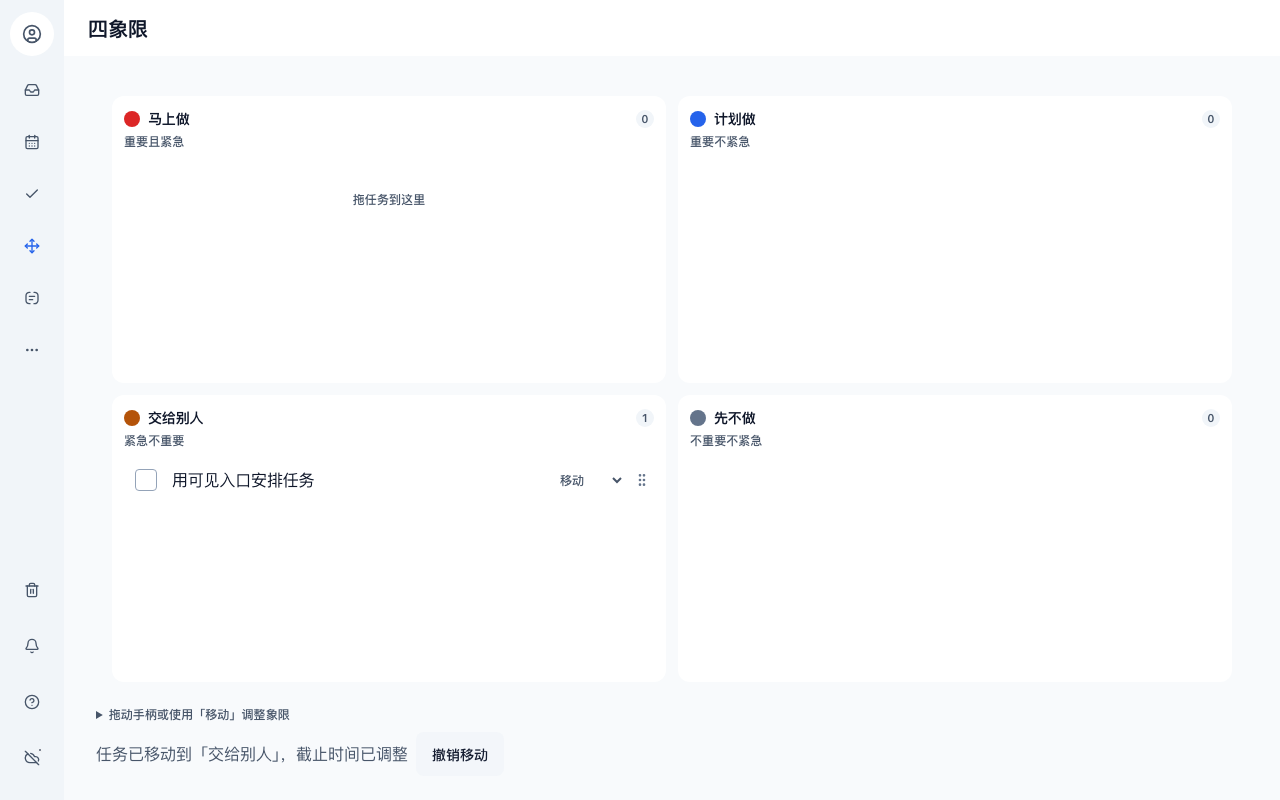
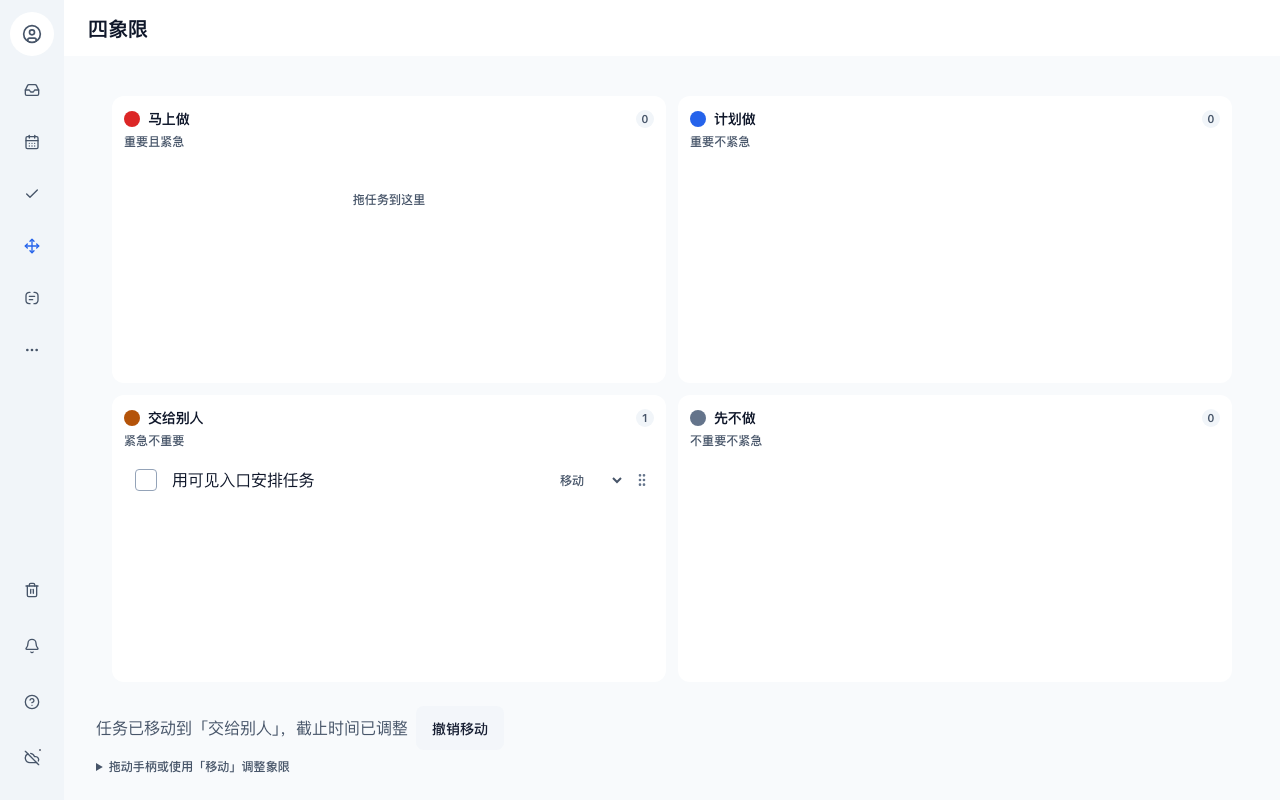
feat(全局UX/P7): 象限撤销回执搬回板子那一段，判据按形状下
回执原来排在折叠帮助之后，1280 档上"任务被移进哪一格"那句与「撤销移动」隔着一整个
板面——刚做完动作的人得滚到页底才找得到出口。现在钉两枚形状判据（真浏览器 y 序 +
DOM 顺序恒为"板子→回执→帮助"），变异取证＝把回执搬回帮助之后精确红，还原 cmp 一致。

第一版判据写的是"回执离板子底边 ≤24px"，375 档实测 40px 当场红——那 24 是我对上边距
的猜测，量的是猜测不是命题，故改成按形状判并把教训留在 spec 注释里。

计划 §8 的 P7 那格记已收口的一格与剩下四格（z 刻度纵切要先加一档语义而不是改一个数，
单纯把 popover 降到 modal 之下会让对话框里开出去的日期/重复选择器沉到遮罩底下）。

Changed region(s): [[0.0625, 0.875, 0.375, 0.9688]]

diff --git a/apps/web/src/features/quadrant/QuadrantBoard.tsx b/apps/web/src/features/quadrant/QuadrantBoard.tsx
@@ -445,33 +445,16 @@ export function QuadrantBoard({ onOpenTask, activeTaskId }: QuadrantBoardProps =
       </HeytaUiProvider>
 
       {/*
-        W5（四象限空态减重）：底部那段四象限规则说明不再裸排长文 ——
-        收进折叠帮助。默认折叠（没有 `open` 属性，浏览器不渲染正文）；
-        summary 复用现成的「帮助」词条（`web.shell.nav.help`），
-        正文沿用原文案与原 key（`web.quadrant.footnote`）—— 零新增词条。
-        `<details>` 是 DOM 元素，进不了共享层（那边只许 RN 原语），
-        所以由 web 宿主自己渲染在板子下方。样式走内联 cssVar
-        （不开新的 ht-* 前缀族，理由见 QuadrantCountBadge 的注释）。
-      */}
-      <details data-testid="quadrant-help" style={{ marginTop: cssVar('space.2') }}>
-        <summary
-          className="ht-type-caption"
-          style={{ cursor: 'pointer', color: cssVar('color.foreground-muted') }}
-        >
-          {t('web.quadrant.interactionHelp')}
-        </summary>
-        <p
-          className="ht-type-caption"
-          style={{
-            margin: 0,
-            marginTop: cssVar('space.2'),
-            color: cssVar('color.foreground-muted'),
-          }}
-        >
-          {t('web.quadrant.footnote')}
-        </p>
-      </details>
-
+       * 🔴 回执住在**板子这一段的紧下方**，不在页底。
+       *
+       * 它说的是"这条任务被移进了哪一格"，动作发生在板上；原来这一段住在整屏尾部
+       * （脚注 `<details>` 之后），1280 宽档上"任务被移进中间那一格"那句与
+       * 「撤销移动」那枚按钮隔着一整个板面 —— 人刚把东西拖到板上，出口在页底，
+       * 得滚动才找得到（取证：`apps/web/evidence/undo-receipt/quadrant-receipt-1280.png`，
+       * 那是 P3 看图照出来的**旧形状**，不是 P3 引入的回归）。
+       * 判据按空间归属下：回执与它说的那次变更在同一块区域里可见，不要求像素相邻。
+       * 折叠帮助仍在回执之后 —— 它是"读规则"那一档，不是刚做完动作时要看的东西。
+       */}
       {dropNotice === undefined && undoDrop === null ? null : (
         <div
           style={{
@@ -502,6 +485,35 @@ export function QuadrantBoard({ onOpenTask, activeTaskId }: QuadrantBoardProps =
           )}
         </div>
       )}
+      {/*
+        W5（四象限空态减重）：底部那段四象限规则说明不再裸排长文 ——
+        收进折叠帮助。默认折叠（没有 `open` 属性，浏览器不渲染正文）；
+        summary 复用现成的「帮助」词条（`web.shell.nav.help`），
+        正文沿用原文案与原 key（`web.quadrant.footnote`）—— 零新增词条。
+        `<details>` 是 DOM 元素，进不了共享层（那边只许 RN 原语），
+        所以由 web 宿主自己渲染在板子下方。样式走内联 cssVar
+        （不开新的 ht-* 前缀族，理由见 QuadrantCountBadge 的注释）。
+      */}
+      <details data-testid="quadrant-help" style={{ marginTop: cssVar('space.2') }}>
+        <summary
+          className="ht-type-caption"
+          style={{ cursor: 'pointer', color: cssVar('color.foreground-muted') }}
+        >
+          {t('web.quadrant.interactionHelp')}
+        </summary>
+        <p
+          className="ht-type-caption"
+          style={{
+            margin: 0,
+            marginTop: cssVar('space.2'),
+            color: cssVar('color.foreground-muted'),
+          }}
+        >
+          {t('web.quadrant.footnote')}
+        </p>
+      </details>
+
+
 
       {/*
         拖拽的**可视化**：手指下跟着一份标题的浮层。

diff --git a/e2e/tests/quadrant-move-ux.spec.ts b/e2e/tests/quadrant-move-ux.spec.ts
@@ -36,6 +36,41 @@ for (const width of [1280, 375]) {
         窗口是 8000ms：把手放在回执上停 9 秒，它必须还在。
       */
       const receipt = page.getByTestId('quadrant-drop-undo');
+      /*
+       * 🔴 2026-10-28（P7）：回执**住在板子那一段里**，不在页底。
+       *
+       * 计划 §P7 那条判据是"回执与它说的那次变更在同一块区域里可见 —— 不要求像素相邻，
+       * 要求不需要滚动去找"。原来这一段排在折叠帮助**之后**，1280 宽档上人与出口之间
+       * 隔着一整个板面（取证 `apps/web/evidence/undo-receipt/quadrant-receipt-1280.png`）。
+       *
+       * 落在这里的是**形状**的两枚判据，不是一枚像素距离：第一版我写的是
+       * "回执顶边减板子底边 ≤ 24px"，375 那一档实测 40px 就红了 —— 那个 24 是我对
+       * 上边距的猜测，而窄档的板子下面本来还有一段自己的东西 ⇒ 它量的是猜测不是命题。
+       * 现在钉的是：① 回执排在帮助之前（旧形状下红：帮助在前）；
+       * ② 回执与板子在同一个容器里（把它搬去别的段落也红）。
+       */
+      const boardBox = await page.getByTestId('quadrant-board').boundingBox();
+      const receiptBox = await receipt.boundingBox();
+      const helpBox = await page.getByTestId('quadrant-help').boundingBox();
+      expect(boardBox, '板子量不到框（这一条就空转了）').not.toBeNull();
+      expect(receiptBox, '回执量不到框').not.toBeNull();
+      expect(helpBox, '折叠帮助量不到框').not.toBeNull();
+      expect(receiptBox!.y, '回执排在折叠帮助之后 ⇒ 刚做完动作时出口在页底').toBeLessThan(helpBox!.y);
+      // DOM 那一半用位置关系判，不用 `parentElement ===`：板子外头还裹着 Provider 那层，
+      // 比"同一个父节点"会把实现细节当命题（真要搬走的话搬的是顺序，不是父节点）。
+      expect(
+        await page.evaluate(() => {
+          const board = document.querySelector('[data-testid="quadrant-board"]');
+          const help = document.querySelector('[data-testid="quadrant-help"]');
+          const node = document.querySelector('[data-testid="quadrant-drop-undo"]');
+          if (board === null || help === null || node === null) return '缺节点';
+          const after = (a: Element, b: Element): boolean =>
+            (a.compareDocumentPosition(b) & Node.DOCUMENT_POSITION_FOLLOWING) !== 0;
+          return after(board, node) && after(node, help) ? '板子→回执→帮助' : `顺序不对:${node.compareDocumentPosition(help)}`;
+        }),
+        '回执没排在板子之后、帮助之前 ⇒ 它说的是板上那次变更，出口却跑到页底了',
+      ).toBe('板子→回执→帮助');
+
       await receipt.hover();
       await page.waitForTimeout(9000);
       await expect(receipt, '手放在回执上、计时照样走完了（暂停通道在真浏览器里没接上）').toBeVisible();

diff --git a/docs/plans/global-ux-system-remediation.md b/docs/plans/global-ux-system-remediation.md
@@ -454,7 +454,7 @@ RN 结构上**根本落不了地**，①不是"成本高"，是不存在。
 > ⚠ 还剩的未量格：`ConflictDialog` 的真浏览器腿 —— 它要有真冲突才出现，`collab-journey` 与默认 e2e 环境都不产生冲突；今天只有 `apps/web/tests/conflict-dialog.spec.tsx`（jsdom，在 2636 条里跑过）与"档位口径"两条依据。**不许把它读成已看图验收。**
 **剩下没迁的与为什么**（不再是"未开始"，是逐格判过的边界）：`PrivacyConsentSheet` = `modal-forced-read` 那一档，形状合但今天没人替它拍"Esc 到底该不该有反应"；`LegalReconfirmSheet` 的 Esc = **延后再说**，那是一条对外法律表征口径，不代拍；`AuthPanel` 自己那层是 `.ht-sheet`（**没有自己的遮罩**），而壳是"遮罩 + 居中面板"的形状 —— 它是抽屉/面板族，不是模态族，硬套壳会凭空给它加一层背景；`CalendarCapturePopover` 是锚定层（`placeAnchoredPanel` + portal + resize 重定位）；`App.tsx` 那三处刻意 `aria-modal="false"`（搜索面/设置面要让下层留在 DOM 里，有断言钉着）；`InboxBell` 与 `CompactRailNavigation` 是非模态弹出；AI 面板那 16 枚 `role="dialog"` 是 prop 转发给 `packages/ui/src/ai/AiPanel.tsx`，不是自绘层。退役 `use-modal-dismiss` 要等 `AuthPanel` 那一格有结论。
  |
-| P7 页头/Chip/空态 | 待开始 | 待补 |
+| P7 页头/Chip/空态 | 🔄 **已开工：P3 登记给本期的那一格（象限回执的空间归属）已收口并看图；z 刻度纵切、页头重排、chip 分型、EmptyState 动作槽四格未做** | **象限回执搬到板子那一段**：它原来排在折叠帮助**之后**，1280 档上"任务被移进『交给别人』"那句与「撤销移动」隔着一整个板面（P3 看图照出来的旧形状）。判据落在真浏览器几何 + DOM 顺序两枚（`quadrant-move-ux` 1280/375 **2 条全绿**）：回执顶边必须在帮助之前，且 DOM 顺序恒为"板子→回执→帮助"。<br>⚠ **第一版判据是我猜的、当场被读数否证**：写的是"回执顶边减板子底边 ≤ 24px"，375 那一档实测 **40px** 就红了 —— 那个 24 是对上边距的猜测，而窄档板子下面本来就还有自己的一段，它量的是猜测不是命题。改成按**形状**判（顺序），并把"不许拿猜来的数字当阈值"这条留在 spec 注释里。<br>能红验证：把回执搬回帮助之后 ⇒ 断言精确红（`回执排在折叠帮助之后 ⇒ 刚做完动作时出口在页底`），从 `/tmp/qb.mut-bak` 还原 `cmp` 逐字一致；复跑 2 条绿。**看图**：`apps/web/evidence/undo-receipt/quadrant-receipt-1280.png` 末帧现在是"四格板面 → 紧接一句带「撤销移动」的回执 → 最底下才是 ▸ 帮助"，出口与它说的动作在同一屏里。<br>**未做的四格（下一趟从这里接）**：① **z 刻度纵切** —— `--ht-z-popover: 500` 高于 `--ht-z-modal: 400` 是第 607 条那枚"画得出来点不动"的根因，今天靠 `z.modal-commitment`(550) 绕过去；现量 `grep -rn "z\.popover" apps/web/src packages/ui/src` 有 **21 处**引用（含注释），真要重排必须先把每一处按"它是页内锚定层还是从模态里开出去的锚定层"分类，因为**单纯把 popover 降到 modal 之下会让从对话框里打开的日期/重复选择器沉到遮罩底下**（`DueEditor.tsx:347,363`、`TaskRepeat.tsx:377` 就是那一类），所以这一格需要的是**加一档语义**而不是改一个数；② 页头按控制对象重排（日历 capture/reset/view 三组控件）；③ 交互 chip ≥44px 与展示 badge 不增高（判据要能分辨"同一排两档高度"那族，见 `docs/agents/design-system.md` 行内动作条那一节）；④ EmptyState 动作槽：空列表/无权限/失败态给对的出口，纯无内容不造假动作。 |
 | P8 全局验收收口 | 待开始 | 待补 |
 
 ---
